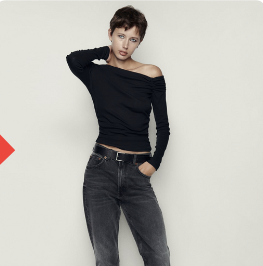
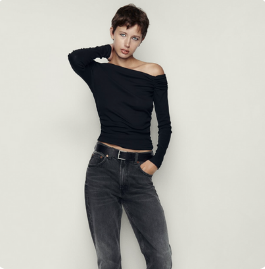
fix picture

diff --git a/src/styles/app.css b/src/styles/app.css
@@ -1189,7 +1189,7 @@ a {
     display: flex;
     flex-direction: column;
     align-items: center;
-    justify-content: center;
+    justify-content: flex-start;
 }
 
 .browse-card img {
